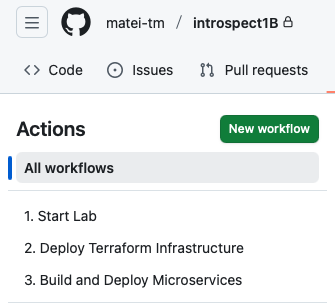
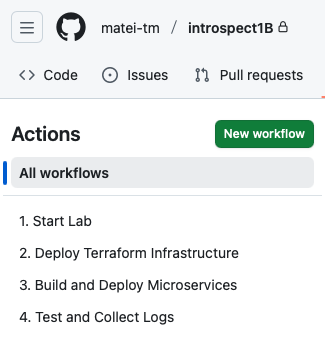
Refactor code structure for improved readability and maintainability

diff --git a/README.md b/README.md
@@ -83,33 +83,20 @@ A complete demonstration of containerized microservices deployed on Amazon EKS w
    > **Note**: If not set, scheduled deployments will be disabled by default. You can still run the workflow manually.
 
 4. **Run the workflows** (Actions tab):
-   
-   **Option A - Individual Workflows (recommended for first-time setup):**
+   **Available GitHub Actions workflows:**
+
    <img src="docs/media/workflow-list.png" alt="GitHub Actions Workflows" width="200" />
-   - **Step 1**: `1. Start Lab` - Initialize lab environment with Playwright automation (~2 min)
-   - **Step 2**: `2. Deploy Terraform Infrastructure` - Provisions EKS, VPC, ECR, SNS/SQS, DynamoDB (~15 min)
-   - **Step 3**: `3. Build and Deploy Microservices` - Builds and deploys services (~5 min)
-   
-   **Option B - All-in-One Workflow:**
-   - **Manual Run**: `Scheduled Operations - Full Deployment` - Runs all steps sequentially with retry logic (~25 min)
-   - **Scheduled Run**: Automatically runs daily if `ENABLE_SCHEDULED_DEPLOYMENT=true`
 
-5. **Verify deployment** - Run the test and log collection workflow:
-   - **GitHub Actions**: `4. Test and Collect Logs` - Comprehensive testing and log collection (~2 min)
-   - Downloads logs as artifact (30-day retention) with detailed test results and service logs
-   
-   **Or verify manually via CLI**:
-   ```bash
-   aws eks update-kubeconfig --region us-east-1 --name dapr-demo-cluster
-   kubectl get pods -n dapr-demo
-   kubectl logs -n dapr-demo -l app=product -c product --tail=10
-   ```
-
-**Available GitHub Actions workflows:**
-
-
+   - **Step**: `1. Start Lab` - Initialize lab environment with Playwright automation (~2 min)
+   - **Step**: `2. Deploy Terraform Infrastructure` - Provisions EKS, VPC, ECR, SNS/SQS, DynamoDB (~15 min)
+   - **Step**: `3. Build and Deploy Microservices` - Builds and deploys services (~5 min)
+   - **Step**: `4. Test and Collect Logs` - Comprehensive testing and log collection (~2 min)
+   - **Verify**: Downloads logs as artifact (30-day retention) with detailed test results and service logs
 
 That's it! Your microservices are now running on EKS with Dapr pub/sub messaging. 🚀
+
+   <img src="docs/media/workflows-runs.png" alt="GitHub Actions Runs" width="600" />
+
 
 For detailed setup, local development, and troubleshooting, continue reading below.
 
@@ -198,8 +185,7 @@ flowchart TB
 │       ├── start-lab.yml                    # 1. Lab initialization workflow
 │       ├── terraform-deploy.yml             # 2. Infrastructure deployment workflow
 │       ├── deploy-services.yml              # 3. Microservices deployment workflow
-│       ├── test-and-logs.yml                # 4. Testing and log collection workflow
-│       └── scheduled-ops-deployment.yml     # Scheduled full deployment (disabled by default)
+│       └── test-and-logs.yml                # 4. Testing and log collection workflow
 ├── src/
 │   ├── eks-dapr-microservices/
 │   │   ├── product-service/
